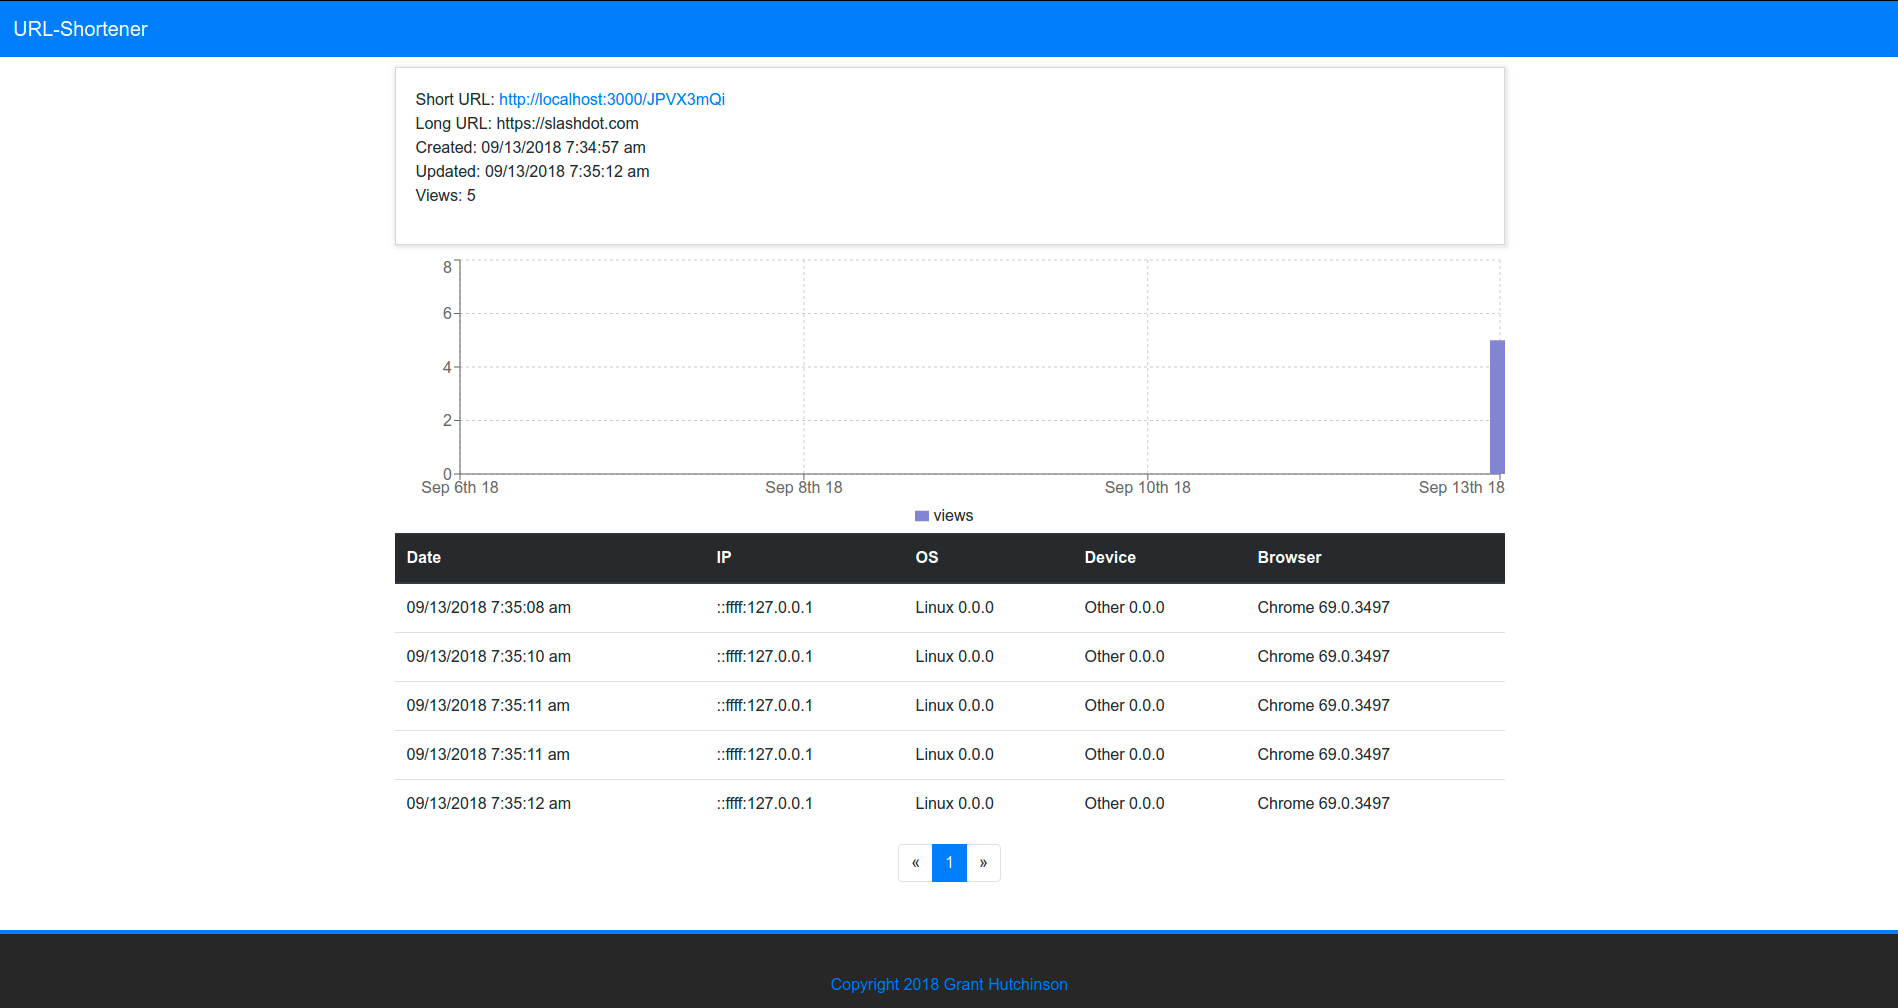
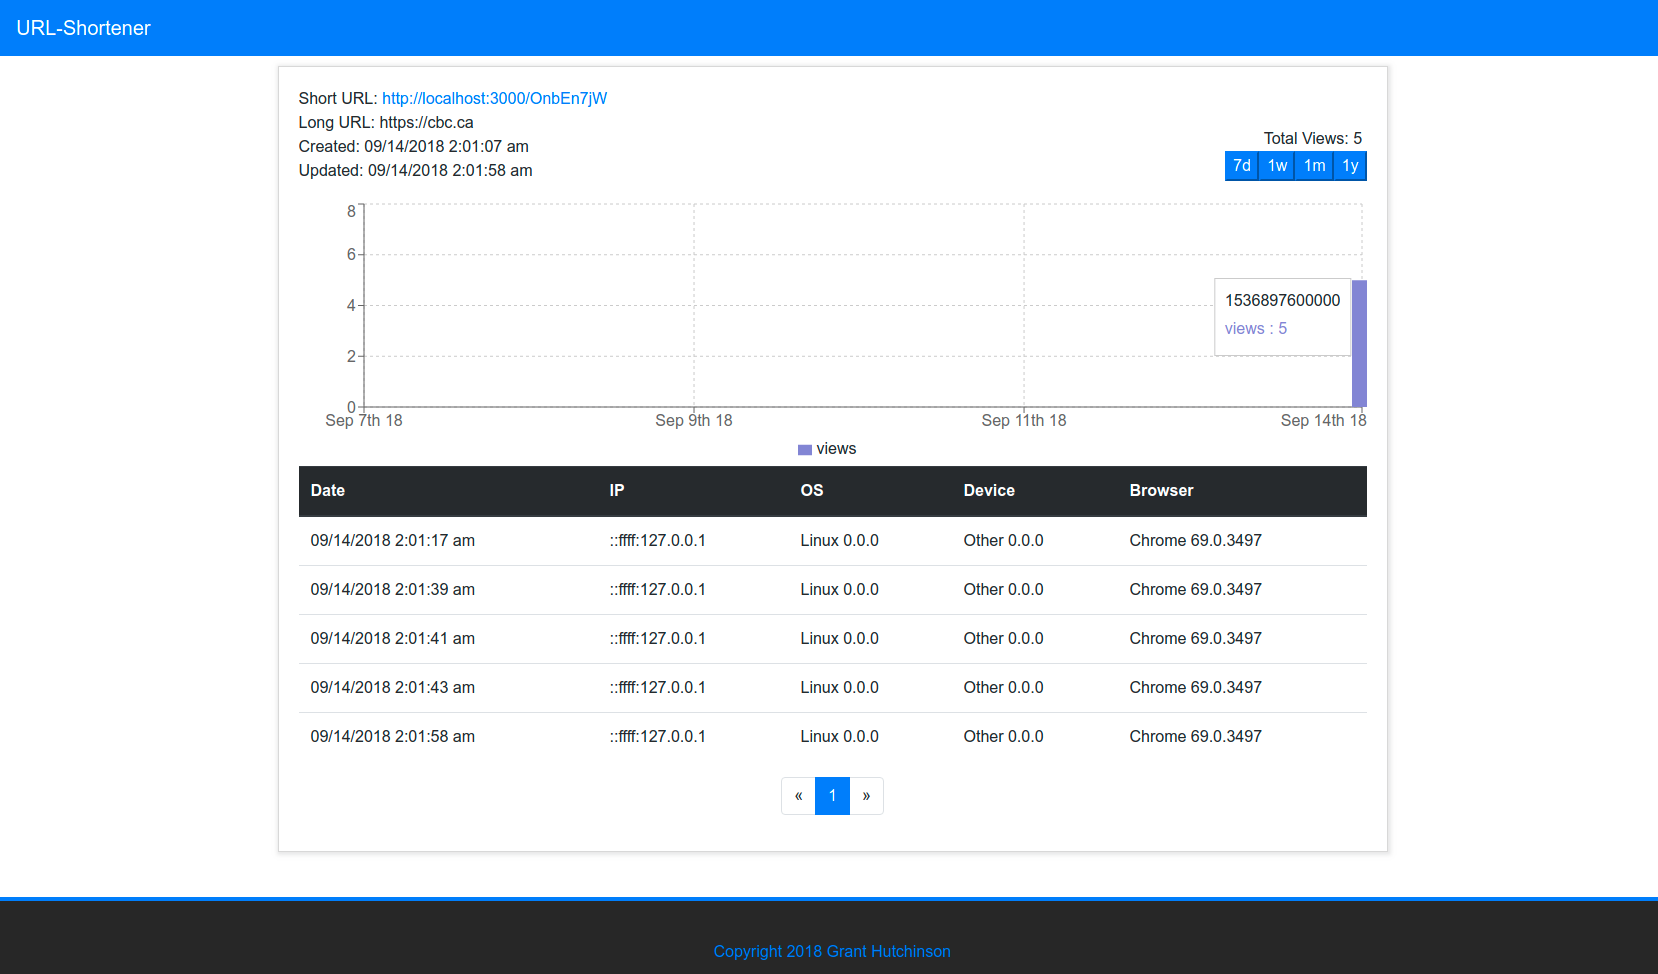
Adding tests, fixing info page style

diff --git a/tests/helpers/page.js b/tests/helpers/page.js
@@ -1,0 +1,95 @@
+const puppeteer = require('puppeteer');
+const urlFactory = require('../factories/urlFactory');
+const viewFactory = require('../factories/viewFactory');
+const dailyViewFactory = require('../factories/dailyViewFactory');
+
+class CustomPage {
+  static async build() {
+    const browser = await puppeteer.launch({
+      headless: false
+      // // args: ['--no-sandbox']
+    });
+
+    const page = await browser.newPage();
+    const customPage = new CustomPage(page);
+
+    return new Proxy(customPage, {
+      get: function(target, property) {
+        return customPage[property] || browser[property] || page[property];
+      }
+    });
+  }
+
+  constructor(page) {
+    this.page = page;
+  }
+
+  async createShortUrl(url) {
+    return Promise.all([
+      await this.click('fieldset > .url-input'),
+      await this.setInputValue('fieldset > .url-input', url),
+      await this.click('.url-button'),
+      await this.waitFor('.url-items')
+    ]);
+  }
+
+  async getContentsOf(selector) {
+    return this.page.$eval(selector, el => el.innerHTML);
+  }
+
+  async getElement(selector) {
+    return this.page.$eval(selector, el => el.outerHTML);
+  }
+  async getElementAttribute(selector, attr) {
+    return this.page.$eval(selector, (el, attr) => el.getAttribute(attr), attr);
+  }
+
+  async setInputValue(selector, text) {
+    this.page.$eval(
+      selector,
+      (el, text) => {
+        el.value = text;
+      },
+      text
+    );
+  }
+
+  get(path) {
+    return this.page.evaluate(_path => {
+      return fetch(_path, {
+        method: 'GET',
+        credentials: 'same-origin',
+        headers: {
+          'Content-Type': 'application/json'
+        }
+      }).then(res => res.json());
+    }, path);
+  }
+
+  post(path, data) {
+    return this.page.evaluate(
+      (_path, _data) => {
+        return fetch(_path, {
+          method: 'POST',
+          credentials: 'same-origin',
+          headers: {
+            'Content-Type': 'application/json'
+          },
+          body: JSON.stringify(_data)
+        }).then(res => res.json());
+      },
+      path,
+      data
+    );
+  }
+
+  execRequests(actions) {
+    return Promise.all(
+      actions.map(({ method, path, data }) => {
+        return this[method](path, data);
+      })
+    );
+  }
+}
+
+module.exports = CustomPage;

diff --git a/client/src/components/Info/Info.js b/client/src/components/Info/Info.js
@@ -125,22 +125,44 @@ class Info extends Component {
       return (
         <div>
           <div className="url-info">
-            <p>
-              Short URL:{' '}
-              <a href={process.env.REACT_APP_DOMAIN + short}>
-                {process.env.REACT_APP_DOMAIN}
-                {short}
-              </a>{' '}
-              <br />
-              Long URL: {long} <br />
-              Created: {moment(createdAt).format('MM/DD/YYYY h:mm:ss a')} <br />
-              Updated: {moment(updatedAt).format('MM/DD/YYYY h:mm:ss a')} <br />
-              Views: {views}
-            </p>
+            <div className="row">
+              <div className="col-md-8 col-12">
+                <p>
+                  <span id="short-url">
+                    Short URL:{' '}
+                    <a href={process.env.REACT_APP_DOMAIN + short}>
+                      {process.env.REACT_APP_DOMAIN}
+                      {short}
+                    </a>
+                  </span>
+                  <br />
+                  <span id="long-url">Long URL: {long}</span> <br />
+                  Created: {moment(createdAt).format(
+                    'MM/DD/YYYY h:mm:ss a'
+                  )}{' '}
+                  <br />
+                  Updated: {moment(updatedAt).format(
+                    'MM/DD/YYYY h:mm:ss a'
+                  )}{' '}
+                  <br />
+                </p>
+              </div>
+              <div className="col-md-4 col-12 info-right">
+                <span id="views">Total Views: {views}</span> <br />
+                <div className="btn-group">
+                  <button className="btn-primary">7d</button>
+                  <button className="btn-primary">1w</button>
+                  <button className="btn-primary">1m</button>
+                  <button className="btn-primary">1y</button>
+                </div>
+              </div>
+            </div>
+            <div className="chart">
+              <Chart data={dailyviews} />
+            </div>
+            {this.renderViewers(viewers)}
+            {this.renderPaginate(views)}
           </div>
-          <Chart data={dailyviews} />
-          {this.renderViewers(viewers)}
-          {this.renderPaginate(views)}
         </div>
       );
     }

diff --git a/tests/landing.test.js b/tests/landing.test.js
@@ -1,0 +1,45 @@
+const Page = require('./helpers/page');
+
+let page;
+
+beforeEach(async () => {
+  page = await Page.build();
+  await page.goto('http://localhost:3000');
+});
+
+afterEach(async () => {
+  await page.close();
+});
+
+test('Form displays correctly', async () => {
+  const text = await page.getElementAttribute(
+    'fieldset > .url-input',
+    'placeholder'
+  );
+  expect(text).toEqual('http://www.yoursite.com');
+});
+
+test('Form validates when input does not include http://', async () => {
+  await page.setInputValue('fieldset > .url-input', 'testing123');
+  await page.click('.url-button');
+  const text = await page.getContentsOf('.text-danger');
+  expect(text).toEqual('You must enter a valid url e.g. http://whatever.com');
+});
+
+test('Form submits and reinitializes when input does include http://', async () => {
+  await page.setInputValue('fieldset > .url-input', 'http://www.cbc.ca');
+  await page.click('.url-button');
+  const text = await page.getElementAttribute('fieldset > .url-input', 'value');
+  expect(text).toEqual('');
+});
+
+test('Form submits and displays result below it', async () => {
+  const url = 'http://www.cbc.ca';
+  await page.click('fieldset > .url-input');
+  await page.setInputValue('fieldset > .url-input', url);
+  await page.click('.url-button');
+  await page.waitFor('.url-items');
+  text = await page.getContentsOf('.url-item');
+  let longUrl = text.substr(3, 17);
+  expect(longUrl).toEqual(url);
+});

diff --git a/tests/info.test.js b/tests/info.test.js
@@ -1,0 +1,30 @@
+const Page = require('./helpers/page');
+
+let page;
+const domain = 'http://localhost:3000';
+let shortUrl = '';
+let url = 'https://www.cbc.ca';
+
+beforeEach(async () => {
+  page = await Page.build();
+  await page.goto(domain);
+});
+
+afterEach(async () => {
+  await page.close();
+});
+
+test('after creating short url, selecting short url loads correct redirect url', async () => {
+  await page.createShortUrl(url);
+  shortUrl = await page.getContentsOf('.url-item > p > a');
+  await page.click('.url-item > p > a');
+  fetchUrl = await page.url();
+  expect(fetchUrl).toMatch(shortUrl);
+});
+
+test('after creating short url, selecting short url loads correct redirect url', async () => {
+  await page.goto(shortUrl);
+  await page.waitFor('.appContainer');
+  let fetchUrl = await page.url();
+  expect(fetchUrl).toMatch(url);
+});

diff --git a/tests/header.test.js b/tests/header.test.js
@@ -1,0 +1,23 @@
+const Page = require('./helpers/page');
+
+let page;
+
+beforeEach(async () => {
+  page = await Page.build();
+  await page.goto('http://localhost:3000');
+});
+
+afterEach(async () => {
+  await page.close();
+});
+
+test('the header brand has the correct text', async () => {
+  const text = await page.getContentsOf('a.navbar-brand');
+  expect(text).toEqual('URL-Shortener');
+});
+
+test('clicking the header brand loads the landing page', async () => {
+  await page.click('a[href="/');
+  const url = await page.url();
+  expect(url).toMatch(/\//);
+});

diff --git a/client/src/styles/App.css b/client/src/styles/App.css
@@ -90,6 +90,28 @@ fieldset {
   border: 1px solid #8080804d;
   margin-bottom: 10px;
 }
+
+.info-right {
+  text-align: right;
+  vertical-align: bottom;
+  padding-top: 40px;
+}
+
+@media (max-width: 756px) {
+  .url-info {
+    padding: 2px;
+    box-shadow: 1px 1px 5px 2px #e9e9e9;
+    border: 1px solid #8080804d;
+    margin-bottom: 10px;
+  }
+  .info-right {
+    text-align: center;
+  }
+  .container {
+    padding: 2px !important;
+  }
+}
+
 .url-viewer {
   padding: 20px;
   border: 1px solid black;

diff --git a/client/src/reducers/guestReducer.js b/client/src/reducers/guestReducer.js
@@ -12,7 +12,7 @@ export default function(state = null, { type, payload }) {
       if (state && state.urls) {
         Object.assign(urls, state.urls);
       }
-      urls.push({ ...payload });
+      urls.unshift({ ...payload });
       return { ...state, urls };
     case FETCH_URL:
       return { ...state, ...payload };

diff --git a/tests/setup.js b/tests/setup.js
@@ -1,0 +1,10 @@
+jest.setTimeout(15000); // 15 second limit per failed test
+
+const mongoose = require('mongoose');
+const keys = require('../config/keys');
+
+mongoose.Promise = global.Promise;
+mongoose.connect(
+  keys.mongoURI,
+  { useNewUrlParser: true }
+);

diff --git a/tests/factories/dailyViewFactory.js b/tests/factories/dailyViewFactory.js
@@ -1,0 +1,9 @@
+const DailyView = require('../../models/DailyView');
+
+module.exports = ({ url, date, views }) => {
+  return new DailyView({
+    url,
+    date,
+    views
+  }).save();
+};

diff --git a/client/src/actions/guest.js b/client/src/actions/guest.js
@@ -37,7 +37,6 @@ export const fetchViewers = (
   direction,
   search
 ) => async dispatch => {
-  console.log(url);
   await client
     .get(
       `/url/viewers/${url}?page=` +

diff --git a/tests/factories/urlFactory.js b/tests/factories/urlFactory.js
@@ -1,0 +1,9 @@
+const Url = require('../../models/Url');
+
+module.exports = ({ short, long, agent }) => {
+  return new Url({
+    short,
+    long,
+    agent
+  }).save();
+};

diff --git a/tests/factories/viewFactory.js b/tests/factories/viewFactory.js
@@ -1,0 +1,8 @@
+const View = require('../../models/View');
+
+module.exports = ({ url, agent }) => {
+  return new View({
+    url,
+    ...agent
+  }).save();
+};
